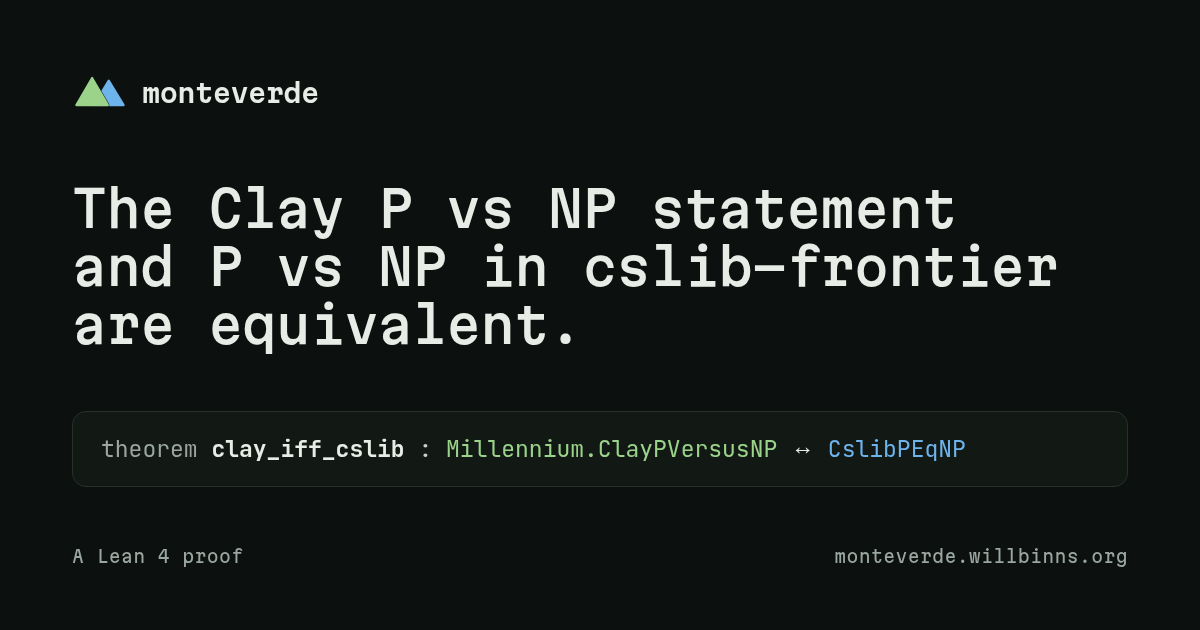
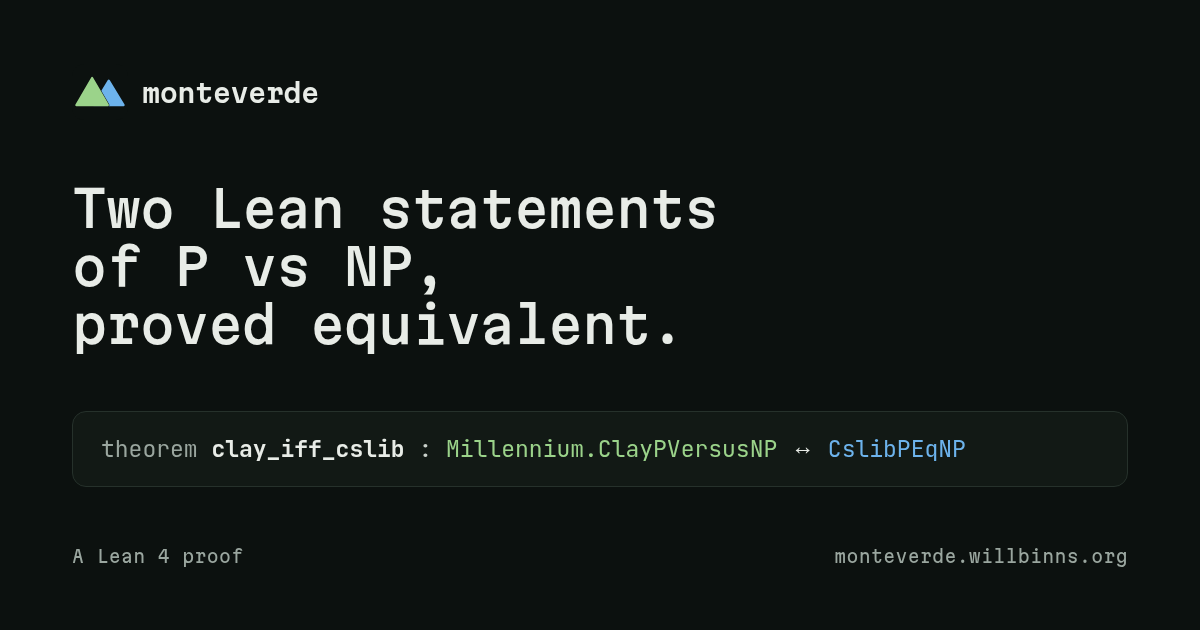
Precise headline and scope; disclose AI assistance; gold for the ecosystem bars

diff --git a/docs/index.html b/docs/index.html
@@ -3,7 +3,7 @@
 <head>
 <meta charset="utf-8">
 <meta name="viewport" content="width=device-width, initial-scale=1">
-<title>Monteverde: Clay P vs NP ↔ P vs NP in cslib-frontier, in Lean 4</title>
+<title>Monteverde: two Lean statements of P vs NP, proved equivalent</title>
 <meta name="description" content="A Lean 4 proof that the LeanMillenniumPrizeProblems formulation of the Clay P vs NP statement is equivalent to P vs NP in cslib-frontier, the largest Lean complexity library. It does not resolve P vs NP; it connects the two statements.">
 <meta name="author" content="Will Binns">
 <meta name="theme-color" content="#0C110F">
@@ -13,19 +13,19 @@
 <meta property="og:type" content="website">
 <meta property="og:site_name" content="Monteverde">
 <meta property="og:url" content="https://monteverde.willbinns.org/">
-<meta property="og:title" content="Monteverde: the Clay P vs NP statement and P vs NP in cslib-frontier are equivalent">
+<meta property="og:title" content="Monteverde: two Lean statements of P vs NP, proved equivalent">
 <meta property="og:description" content="A Lean 4 proof that links the two formal statements, so a Lean result about one is a Lean result about the other. It does not resolve P vs NP.">
 <meta property="og:image" content="https://monteverde.willbinns.org/og.png">
 <meta property="og:image:width" content="1200">
 <meta property="og:image:height" content="630">
-<meta property="og:image:alt" content="Monteverde. The Clay P vs NP statement and P vs NP in cslib-frontier are equivalent. theorem clay_iff_cslib : Millennium.ClayPVersusNP ↔ CslibPEqNP">
+<meta property="og:image:alt" content="Monteverde. Two Lean statements of P vs NP, proved equivalent. theorem clay_iff_cslib : Millennium.ClayPVersusNP ↔ CslibPEqNP">
 <meta property="og:locale" content="en_US">
 
 <meta name="twitter:card" content="summary_large_image">
-<meta name="twitter:title" content="Monteverde: the Clay P vs NP statement and P vs NP in cslib-frontier are equivalent">
+<meta name="twitter:title" content="Monteverde: two Lean statements of P vs NP, proved equivalent">
 <meta name="twitter:description" content="A Lean 4 proof that links the two formal statements. It does not resolve P vs NP.">
 <meta name="twitter:image" content="https://monteverde.willbinns.org/og.png">
-<meta name="twitter:image:alt" content="Monteverde. The Clay P vs NP statement and P vs NP in cslib-frontier are equivalent.">
+<meta name="twitter:image:alt" content="Monteverde. Two Lean statements of P vs NP, proved equivalent.">
 
 <link rel="icon" href="/favicon.ico" sizes="48x48">
 <link rel="icon" href="/favicon.svg" type="image/svg+xml">
@@ -66,7 +66,7 @@
   --faint: #7E8A83;
   --clay: #9BD38A;
   --cslib: #6DB3EC;
-  --bar: #B9C2BC;
+  --bar: #E6C27A;
   --underline: #5C6B63;
   --display: "Martian Mono", ui-monospace, monospace;
   --sans: "Inter", system-ui, -apple-system, "Segoe UI", sans-serif;
@@ -314,13 +314,13 @@ footer pre { font-size: 13px; line-height: 1.6; color: var(--faint); }
 <main id="main">
 <section class="hero" id="top">
   <div class="wrap">
-    <h1>The Clay P vs NP statement and P vs NP in cslib-frontier are equivalent.</h1>
+    <h1>Two Lean statements of P vs NP, proved equivalent.</h1>
     <p class="intro">Monteverde proves in Lean 4 that the
       LeanMillenniumPrizeProblems formulation of the Clay P vs NP
       statement is equivalent to P vs NP in cslib-frontier, the
-      largest Lean complexity library. It connects two bodies of work, so that progress in
-      either library now counts for both: a Lean result about one statement is a Lean result
-      about the other. It does not resolve P vs NP.</p>
+      largest Lean complexity library. A Lean proof of P = NP, or of P ≠ NP, in one formulation
+      is now a proof in the other, and membership in P and NP carries over between the two
+      libraries for languages over finite alphabets. It does not resolve P vs NP.</p>
     <div class="actions">
       <a class="btn primary" href="https://github.com/wbnns/monteverde">View on GitHub</a>
       <a class="btn" href="https://github.com/wbnns/monteverde/releases/tag/v1.1.0">Release v1.1.0</a>
@@ -570,8 +570,8 @@ footer pre { font-size: 13px; line-height: 1.6; color: var(--faint); }
       <div class="card">
         <h3>Build on the bridges</h3>
         <p>Use <code>clayP_iff_cslib</code>, <code>clayNP_iff_cslib</code> and the function
-          bridge in your own project, so that a result in one library also counts in the
-          other.</p>
+          bridge in your own project, so that results about P, NP and reductions carry over
+          between the two libraries.</p>
       </div>
       <div class="card">
         <h3>Review the Cook text audit</h3>
@@ -627,8 +627,9 @@ rev = "v1.1.0"</code></pre>
 <footer>
   <div class="wrap cols">
     <div>
-      <p>Monteverde is by Will Binns, with thanks to everyone whose work it builds on.
-        Released under the Apache License 2.0. See
+      <p>Monteverde is by Will Binns, with thanks to everyone whose work it builds on. It was
+        developed with AI assistance (Claude, by Anthropic); every proof is checked by the Lean
+        kernel and, independently, by nanoda. Released under the Apache License 2.0. See
         <a href="https://github.com/wbnns/monteverde/blob/main/CREDITS.md">CREDITS.md</a>.</p>
     </div>
     <div>

diff --git a/README.md b/README.md
@@ -50,6 +50,7 @@ negative Clay statement.
 | Website | [monteverde.willbinns.org](https://monteverde.willbinns.org) |
 | Release | [v1.1.0](https://github.com/wbnns/monteverde/releases/tag/v1.1.0), November 22, 2026 |
 | License | Apache-2.0 |
+| Development | Developed with AI assistance (Claude, by Anthropic). Every proof is checked by the Lean kernel and, independently, by nanoda. |
 
 ## The main theorems
 
@@ -534,8 +535,7 @@ The recoder took less than a day, so the milestone plan did not change.
 ```bibtex
 @software{monteverde,
   author  = {Binns, Will},
-  title   = {Monteverde: the Clay P vs NP statement and P vs NP in cslib-frontier are
-             equivalent, in Lean 4},
+  title   = {Monteverde: two Lean statements of P vs NP, proved equivalent},
   version = {1.1.0},
   date    = {2026-11-22},
   url     = {https://github.com/wbnns/monteverde}
